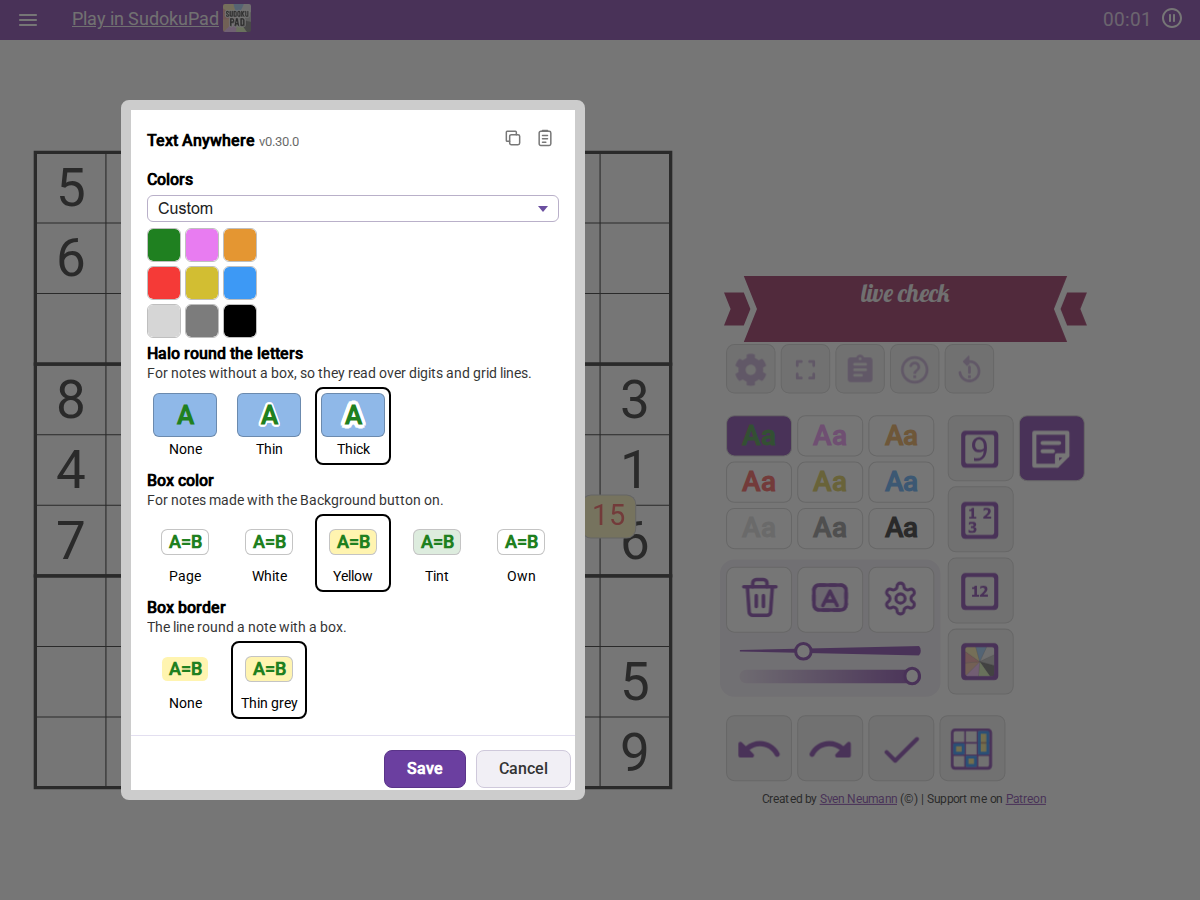
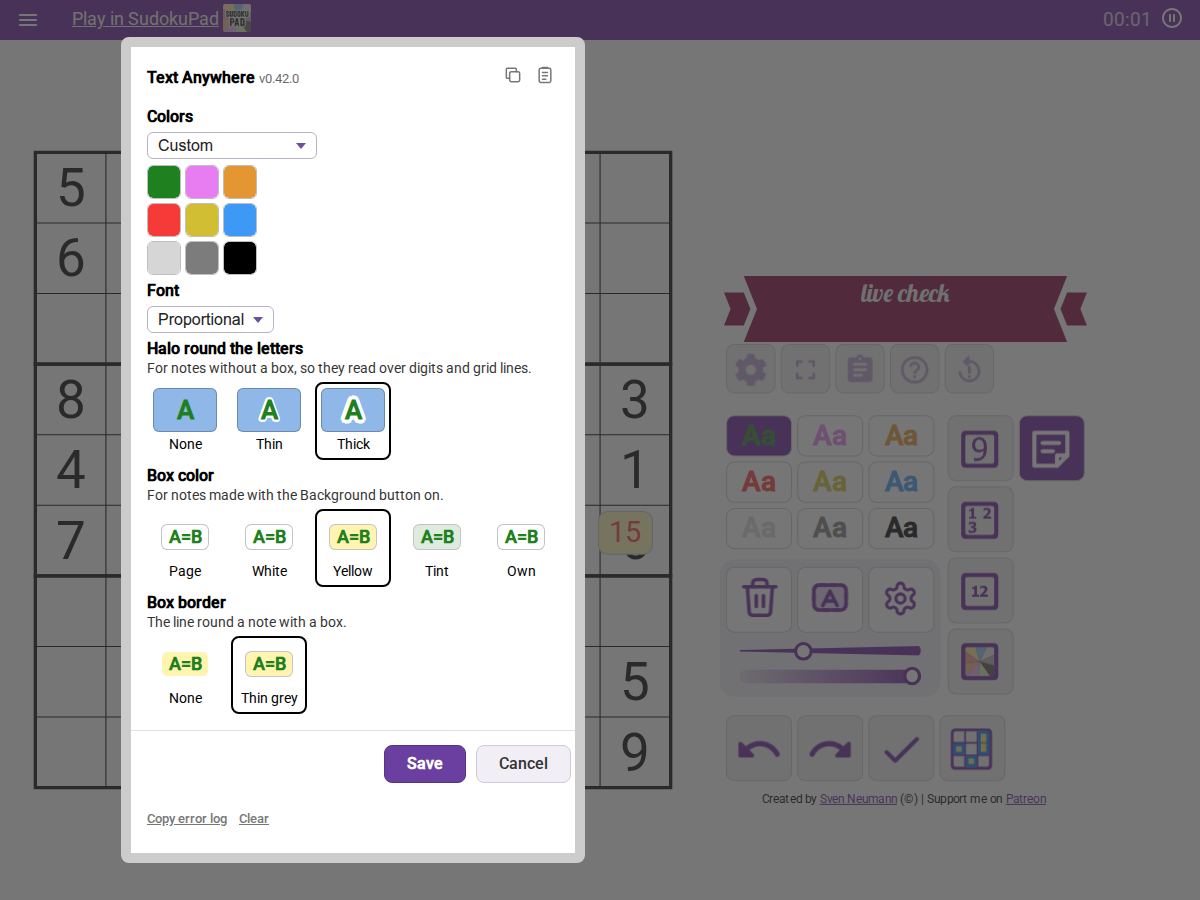
Text Anywhere: Font setting and narrower settings pulldowns (#629) (#661)
* Text Anywhere: a Font setting (Proportional or Fixed width) and narrower settings pulldowns (#629)

Closes #629

* Text Anywhere: retake the settings dialog picture with the Font pulldown (#629)

Closes #629

* Text Anywhere: review fixes for the Font setting (#629)

Closes #629

* Text Anywhere: the font live test sees a stale selection box (#629, C1)

Closes #629

Changed region(s): [[0.0925, 0.0311, 0.4933, 0.8089], [0.0925, 0.8089, 0.4933, 0.9644], [0.4933, 0.56, 0.555, 0.6222]]

diff --git a/draw-tool.user.js b/draw-tool.user.js
@@ -1,7 +1,7 @@
 // ==UserScript==
 // @name         SudokuPad Text Anywhere
 // @namespace    https://github.com/caneff/sudokupad-scripts
-// @version      0.41.1
+// @version      0.42.0
 // @description  Adds a Text Anywhere tool for typed notes on the board or beside it, such as cage sums, in colors of its own. Each puzzle keeps its own notes.
 // @match        https://sudokupad.app/*
 // @match        https://*.sudokupad.app/*
@@ -16,7 +16,7 @@
 (function () {
   'use strict'
 
-  const VERSION = '0.41.1'
+  const VERSION = '0.42.0'
   const TOOL_NAME = 'draw'
   const LAYER_ID = 'draw-tool-layer'
   const DIALOG_BLUR_PX = 8
@@ -197,6 +197,7 @@
   const BACKGROUND_KEY = 'DrawTool_background'
   const BOX_KEY = 'DrawTool_box'
   const FRAME_KEY = 'DrawTool_frame'
+  const FONT_KEY = 'DrawTool_font'
   // A character's width as a share of the text size: the widest digit of a sans-serif font, so a hit test errs wide.
   const CHAR_WIDTH = 0.6
   // A line's height as a share of the text size, in the font's own spacing, so a note's box is as tall as the note drawn.
@@ -673,6 +674,17 @@
   const FRAME_COLOR = '#c4c4c4'
   const readFrame = readFlag
   const frameShadow = (on) => on ? `0 0 0 var(${PIXEL_VAR}, 1px) ${FRAME_COLOR}` : 'none'
+  // Every note's font: the page's own, or a monospace stack. Code spans and blocks use the stack either way.
+  const FONT_PROPORTIONAL = 'proportional'
+  const FONT_FIXED = 'fixed'
+  const FONTS = { [FONT_PROPORTIONAL]: 'Proportional', [FONT_FIXED]: 'Fixed width' }
+  const DEFAULT_FONT = FONT_PROPORTIONAL
+  const FIXED_FONT_STACK = "ui-monospace, SFMono-Regular, Menlo, Consolas, 'Liberation Mono', monospace"
+  const readFont = (saved) => Object.hasOwn(FONTS, saved) ? saved : DEFAULT_FONT
+  const noteFontFamily = (font, boardFont) => font === FONT_FIXED ? FIXED_FONT_STACK : boardFont
+  // Classed as the color pulldown, whose look the dialog's stylesheet already gives (colorBlockCss); a copy of that rule would drift from it.
+  const renderFontChoice = (font) =>
+    `<div class="${CLASS_PREFIX}color-block"><select class="${CLASS_PREFIX}color-choice" data-role="font-choice" aria-label="Font">${Object.entries(FONTS).map(([value, label]) => `<option value="${value}"${value === font ? ' selected' : ''}>${label}</option>`).join('')}</select></div>`
   // The settings dialog's three rows of samples: the halo, the box color and the box border, each button a picture of its result in the current text color.
   const HALO_CELL_COLOR = '#8fb8e8'
   const SAMPLE_BOX_STYLE = 'display:inline-block;padding:0.15em 0.35em;border-radius:0.3em'
@@ -1088,21 +1100,22 @@
     return { ...paletteColors(preset, pages, readCell).colors }
   }
 
-  // Copy and Paste carry the colors, size, transparency, outline, box color and frame, and not the notes, the color picked or the background button.
+  // Copy and Paste carry the colors, size, transparency, outline, box color, frame and font, and not the notes, the color picked or the background button.
   const readPastedColors = (data) => isPlainObject(data) && COLOR_NUMBERS.some((n) => n in data) && COLOR_NUMBERS.every((n) => !(n in data) || savedHex(data[n])) ? readDrawColors(data) : undefined
   const READERS = {
     [COLORS_KEY]: readPastedColors,
     [WIDTH_KEY]: (data) => isWidth(data) ? data : undefined,
     [OPACITY_KEY]: (data) => isOpacity(data) ? data : undefined,
-    // The ticket reads an invalid pasted outline as Thick, box color as Page and frame as off, so none is counted as skipped.
+    // The ticket reads an invalid pasted outline as Thick, box color as Page and frame as off, so none is counted as skipped; a font is read the same way.
     [OUTLINE_KEY]: readOutline,
     [BOX_KEY]: readBox,
-    [FRAME_KEY]: readFrame
+    [FRAME_KEY]: readFrame,
+    [FONT_KEY]: readFont
   }
 
-  // The size, transparency, outline, box color and frame in force, default included, so a paste can put them back to their defaults; the colors only once they are saved.
+  // The size, transparency, outline, box color, frame and font in force, default included, so a paste can put them back to their defaults; the colors only once they are saved.
   function copiedSettings (store) {
-    const copied = { [WIDTH_KEY]: readWidth(store.getData(WIDTH_KEY)), [OPACITY_KEY]: readOpacity(store.getData(OPACITY_KEY)), [OUTLINE_KEY]: readOutline(store.getData(OUTLINE_KEY)), [BOX_KEY]: readBox(store.getData(BOX_KEY)), [FRAME_KEY]: readFrame(store.getData(FRAME_KEY)) }
+    const copied = { [WIDTH_KEY]: readWidth(store.getData(WIDTH_KEY)), [OPACITY_KEY]: readOpacity(store.getData(OPACITY_KEY)), [OUTLINE_KEY]: readOutline(store.getData(OUTLINE_KEY)), [BOX_KEY]: readBox(store.getData(BOX_KEY)), [FRAME_KEY]: readFrame(store.getData(FRAME_KEY)), [FONT_KEY]: readFont(store.getData(FONT_KEY)) }
     const savedColors = readDrawColors(store.getData(COLORS_KEY))
     if (savedColors) copied[COLORS_KEY] = savedColors
     return JSON.stringify(copied)
@@ -1838,7 +1851,7 @@
     return Math.round(from + (to - from) * Math.min(1, (heldMs - NUDGE_REPEAT_MS) / NUDGE_RAMP_MS))
   }
   if (typeof module !== 'undefined' && module.exports) {
-    module.exports = { snapAxis, gridLines, SNAP_PX, nudgeStep, NUDGE_PX, NUDGE_SHIFT_PX, NUDGE_REPEAT_MS, NUDGE_RAMP_MS, NUDGE_MAX_PX, NUDGE_SHIFT_MAX_PX, VERSION, lackingInternals, FEATURES, READERS, TOOL_NAME, toolNamesFor, readDrawing, loadDrawing, puzzleKey, touchIndex, readIndex, saveDrawingTo, keepRestartedTo, DRAWING_PREFIX, RESTARTED_PREFIX, INDEX_KEY, DEFAULT_COLOR, DEFAULT_WIDTH, MIN_WIDTH, MAX_WIDTH, MIN_OPACITY, MAX_OPACITY, DEFAULT_OPACITY, drawColor, readColor, readWidth, readBackground, textSizeFor, OUTLINES, DEFAULT_OUTLINE, OUTLINE_LABELS, readOutline, haloShadow, OUTLINE_EM, itemOpacity, readOpacity, HIT_MARGIN_PX, grownBox, noteAtPoint, pointerSpeed, isPlacing, SNAP_MAX_SPEED, SPEED_WINDOW_MS, lockedAxis, axisLocked, viewShift, WINDOW_PAD_PX, textItem, textBox, noteBox, parseMarkdown, closedSymbols, closedText, isSmallRectangle, RECTANGLE_CLICK_PX, symbolJustTyped, rawOffset, toggledCheck, notesTouched, panelLooks, touchesBox, placedItem, boardView, screenPoint, SHOWN_AT, noteScreenBox, resizedItem, autoSized, CORNERS, reachablePoint, DRAWN_SIZE, BOX_WIDTH_EM, BOX_LINES, LINE_HEIGHT, MIN_BOX_EM, isClick, CLICK_SLOP, SUDOKUPAD_PEN_COLORS, hexColor, readDrawColors, presetOptions, presetColors, copiedSettings, pastedSettings, pasteReport, PRESET_LABELS, COLORS_KEY, WIDTH_KEY, OPACITY_KEY, OUTLINE_KEY, BACKGROUND_KEY, BOX_KEY, FRAME_KEY, BOX_PRESETS, DEFAULT_BOX, BOX_YELLOW, readBox, boxChoice, boxFill, FRAME_COLOR, readFrame, frameShadow, renderSamplePicks, copiedPenColors, editedColor, colorsCss, HOLD_TO_EDIT_MS }
+    module.exports = { snapAxis, gridLines, SNAP_PX, nudgeStep, NUDGE_PX, NUDGE_SHIFT_PX, NUDGE_REPEAT_MS, NUDGE_RAMP_MS, NUDGE_MAX_PX, NUDGE_SHIFT_MAX_PX, VERSION, lackingInternals, FEATURES, READERS, TOOL_NAME, toolNamesFor, readDrawing, loadDrawing, puzzleKey, touchIndex, readIndex, saveDrawingTo, keepRestartedTo, DRAWING_PREFIX, RESTARTED_PREFIX, INDEX_KEY, DEFAULT_COLOR, DEFAULT_WIDTH, MIN_WIDTH, MAX_WIDTH, MIN_OPACITY, MAX_OPACITY, DEFAULT_OPACITY, drawColor, readColor, readWidth, readBackground, textSizeFor, OUTLINES, DEFAULT_OUTLINE, OUTLINE_LABELS, readOutline, haloShadow, OUTLINE_EM, itemOpacity, readOpacity, HIT_MARGIN_PX, grownBox, noteAtPoint, pointerSpeed, isPlacing, SNAP_MAX_SPEED, SPEED_WINDOW_MS, lockedAxis, axisLocked, viewShift, WINDOW_PAD_PX, textItem, textBox, noteBox, parseMarkdown, closedSymbols, closedText, isSmallRectangle, RECTANGLE_CLICK_PX, symbolJustTyped, rawOffset, toggledCheck, notesTouched, panelLooks, touchesBox, placedItem, boardView, screenPoint, SHOWN_AT, noteScreenBox, resizedItem, autoSized, CORNERS, reachablePoint, DRAWN_SIZE, BOX_WIDTH_EM, BOX_LINES, LINE_HEIGHT, MIN_BOX_EM, isClick, CLICK_SLOP, SUDOKUPAD_PEN_COLORS, hexColor, readDrawColors, presetOptions, presetColors, copiedSettings, pastedSettings, pasteReport, PRESET_LABELS, COLORS_KEY, WIDTH_KEY, OPACITY_KEY, OUTLINE_KEY, BACKGROUND_KEY, BOX_KEY, FRAME_KEY, FONT_KEY, FONTS, DEFAULT_FONT, FIXED_FONT_STACK, readFont, noteFontFamily, renderFontChoice, BOX_PRESETS, DEFAULT_BOX, BOX_YELLOW, readBox, boxChoice, boxFill, FRAME_COLOR, readFrame, frameShadow, renderSamplePicks, copiedPenColors, editedColor, colorsCss, HOLD_TO_EDIT_MS }
   }
   if (typeof document === 'undefined') return
 
@@ -2199,7 +2212,7 @@
     '}',
     `.${HANDLE_CLASS}.${ENTERING_CLASS} { opacity: 0; }`,
     `.${CHECK_CLASS} { display: inline-block; box-sizing: border-box; width: 0.8em; height: 0.8em; border: 2px solid currentColor; border-radius: 3px; vertical-align: -0.05em; position: relative; }`,
-    `.${CODE_CLASS} { font-family: ui-monospace, SFMono-Regular, Menlo, Consolas, 'Liberation Mono', monospace; font-size: 0.9em; background: color-mix(in srgb, currentColor 15%, transparent); border-radius: 0.25em; padding: 0.05em 0.25em; box-decoration-break: clone; -webkit-box-decoration-break: clone; }`,
+    `.${CODE_CLASS} { font-family: ${FIXED_FONT_STACK}; font-size: 0.9em; background: color-mix(in srgb, currentColor 15%, transparent); border-radius: 0.25em; padding: 0.05em 0.25em; box-decoration-break: clone; -webkit-box-decoration-break: clone; }`,
     `.${CODE_BLOCK_CLASS} { display: block; padding: 0.15em 0.35em; border-radius: 0.3em; }`,
     `.${CHECK_DONE_CLASS}::after { content: ''; position: absolute; left: 0.2em; top: -0.1em; width: 0.25em; height: 0.5em; border: solid currentColor; border-width: 0 2px 2px 0; transform: rotate(45deg); }`,
     `.${ACTIVE_CLASS} .${TEXT_CLASS}:not(.${TEXT_BOX_CLASS}) .${CHECK_CLASS} { cursor: pointer; }`,
@@ -2233,10 +2246,11 @@
   let opacity = DEFAULT_OPACITY
   // Whether the next note is made with a background. The Background button turns it on and off, and it is remembered.
   let background = false
-  // The outline of every note and the box color and frame of every note with a box, as the settings dialog sets them.
+  // The outline and font of every note and the box color and frame of every note with a box, as the settings dialog sets them.
   let outline = DEFAULT_OUTLINE
   let boxColor = DEFAULT_BOX
   let frame = false
+  let noteFont = DEFAULT_FONT
   // Text Anywhere's nine colors, or null until they are first copied from the pen colors.
   let colors = null
   // The elements the panel adds to SudokuPad's keypad while Text Anywhere is current.
@@ -2282,15 +2296,15 @@
     style.textContent = colors ? colorsCss(colors) : ''
   }
 
-  // The colors, outline, box color and frame as stored and as shown, as a function that puts them all back after a Save that failed half-way.
+  // The colors, outline, box color, frame and font as stored and as shown, as a function that puts them all back after a Save that failed half-way.
   function snapshotSave () {
-    const restoreStored = snapshotStore(savedData, [COLORS_KEY, OUTLINE_KEY, BOX_KEY, FRAME_KEY])
-    const was = { colors, outline, boxColor, frame }
+    const restoreStored = snapshotStore(savedData, [COLORS_KEY, OUTLINE_KEY, BOX_KEY, FRAME_KEY, FONT_KEY])
+    const was = { colors, outline, boxColor, frame, noteFont }
     return () => {
       try {
         restoreStored()
       } finally {
-        ;({ colors, outline, boxColor, frame } = was)
+        ;({ colors, outline, boxColor, frame, noteFont } = was)
         showColors()
         if (colors) refreshPickers(CLASS_PREFIX, (n) => colors[n])
         showBoxes()
@@ -2320,25 +2334,33 @@
     boardNotes.run(() => { if (Framework.app.puzzle.currentPuzzle) redraw() })
   }
 
+  // A look setting is stored, then the notes are drawn again in it.
+  function writeLook (key, value) {
+    writeData(key, value)
+    showBoxes()
+  }
+
   function saveOutline (next) {
     outline = next
-    writeData(OUTLINE_KEY, next)
-    showBoxes()
+    writeLook(OUTLINE_KEY, next)
   }
 
   function saveBoxColor (next) {
     boxColor = next
-    writeData(BOX_KEY, next)
-    showBoxes()
+    writeLook(BOX_KEY, next)
   }
 
   function saveFrame (on) {
     frame = on
-    writeData(FRAME_KEY, on)
-    showBoxes()
+    writeLook(FRAME_KEY, on)
   }
 
-  // The settings dialog: nine color pickers and a preset list, the outline, the box color and the frame, which fill a draft Save writes, and Copy and Paste settings, which act at once.
+  function saveFont (next) {
+    noteFont = next
+    writeLook(FONT_KEY, next)
+  }
+
+  // The settings dialog: nine color pickers and a preset list, the font, the outline, the box color and the frame, which fill a draft Save writes, and Copy and Paste settings, which act at once.
   const DIALOG_ID = 'draw-tool-dialog'
   const DIALOG_STYLE_ID = 'draw-tool-dialog-style'
   const CUSTOM_LABEL = 'Custom'
@@ -2352,7 +2374,9 @@
     `#${DIALOG_ID} .draw-tool-sample[data-cell] { border: 1px solid rgb(0 0 0 / .25); }`,
     `#${DIALOG_ID} .draw-tool-pick-label { font-size: 0.85em; }`,
     `#${DIALOG_ID} input.draw-tool-swatch[data-role="box-custom"] { display: block; margin: 0 0 6px; }`,
-    colorBlockCss(CLASS_PREFIX, `#${DIALOG_ID}`)
+    colorBlockCss(CLASS_PREFIX, `#${DIALOG_ID}`),
+    // The pulldowns are as wide as their longest option, not as the dialog's column (after colorBlockCss, whose rule they override).
+    `#${DIALOG_ID} .${CLASS_PREFIX}color-choice { width: auto; min-width: 0; }`
   ].join('\n')
 
   // A pasted value is saved and shown at once, whether or not Text Anywhere is current.
@@ -2364,6 +2388,7 @@
     if (OUTLINE_KEY in values) saveOutline(values[OUTLINE_KEY])
     if (BOX_KEY in values) saveBoxColor(values[BOX_KEY])
     if (FRAME_KEY in values) saveFrame(values[FRAME_KEY])
+    if (FONT_KEY in values) saveFont(values[FONT_KEY])
   }
 
   function openDialog () {
@@ -2375,6 +2400,7 @@
     let draftBox = boxColor
     let draftCustom = savedHex(boxColor) ?? BOX_WHITE
     let draftFrame = frame
+    let draftFont = noteFont
     let pages = []
     let paletteNote = ''
     // A palette of a shape the script does not know is the dialog's own note, and does not turn the presets off.
@@ -2386,7 +2412,7 @@
         paletteNote = error.message
       }
     }
-    const edits = () => ({ colors: colorsEdited, outline: draftOutline !== outline, box: draftBox !== boxColor, frame: draftFrame !== frame })
+    const edits = () => ({ colors: colorsEdited, outline: draftOutline !== outline, box: draftBox !== boxColor, frame: draftFrame !== frame, font: draftFont !== noteFont })
     const box = settingsUi.run(() => showSettingsDialog(dialogs, {
       prefix: CLASS_PREFIX,
       name: 'Text Anywhere',
@@ -2402,6 +2428,7 @@
         if (edited.outline) saveOutline(draftOutline)
         if (edited.box) saveBoxColor(draftBox)
         if (edited.frame) saveFrame(draftFrame)
+        if (edited.font) saveFont(draftFont)
       }
     }), () => null)
     if (!box) return
@@ -2410,6 +2437,7 @@
       box.innerHTML = '<div class="draw-tool-section-title">Colors</div>' +
         renderColorBlock({ prefix: CLASS_PREFIX, label: 'Text color preset', options, swatches: COLOR_NUMBERS.map((n) => ({ key: String(n), value: draft[n], label: `Text color ${n}` })) }) +
         (paletteNote ? `<div data-role="palette-note">${paletteNote}.</div>` : '') +
+        `<div class="draw-tool-section-title">Font</div>${renderFontChoice(draftFont)}` +
         renderSamplePicks({ outline: draftOutline, box: draftBox, custom: draftCustom, frame: draftFrame, textColor: draft[color] })
     }
     draw()
@@ -2421,6 +2449,9 @@
           draft = presetColors(chosen, pages, readCellColor, readPenColor)
           colorsEdited = true
         }
+        draw()
+      } else if (target.matches('[data-role="font-choice"]')) {
+        draftFont = readFont(target.value)
         draw()
       } else if (target.matches('[data-role="box-custom"]')) {
         draftCustom = draftBox = hexColor(target.value)
@@ -2449,6 +2480,7 @@
       draftBox = boxColor
       draftCustom = savedHex(boxColor) ?? draftCustom
       draftFrame = frame
+      draftFont = noteFont
       draft = colors ?? draft
       chosen = null
       colorsEdited = false
@@ -2737,7 +2769,7 @@
     watchBoard(svg)
     const map = boardMap()
     lastLayout = layoutKey(map)
-    const font = window.getComputedStyle(svg).fontFamily
+    const font = noteFontFamily(noteFont, window.getComputedStyle(svg).fontFamily)
     if (font !== layerFont) layer.style.fontFamily = layerFont = font
     noteGroups(layer)
     placeBoardGroup(map)
@@ -3970,6 +4002,7 @@
     colors = readDrawColors(readData(COLORS_KEY))
     boxColor = readBox(readData(BOX_KEY))
     frame = readFrame(readData(FRAME_KEY))
+    noteFont = readFont(readData(FONT_KEY))
     showColors()
     // The features are independent: one that fails to install costs the others nothing.
     textTool.run(() => {

diff --git a/test/draw-tool.test.js b/test/draw-tool.test.js
@@ -7,7 +7,7 @@ const path = require('node:path')
 const { headerVersion } = require('./header-version.js')
 const { quietly } = require('./fake-store.js')
 const { failEachListener } = require('./specs/broken-sudokupad.js')
-const { snapAxis, gridLines, SNAP_PX, nudgeStep, NUDGE_PX, NUDGE_SHIFT_PX, NUDGE_REPEAT_MS, NUDGE_RAMP_MS, NUDGE_MAX_PX, NUDGE_SHIFT_MAX_PX, VERSION, lackingInternals, FEATURES, TOOL_NAME, toolNamesFor, readDrawing, loadDrawing, touchIndex, readIndex, saveDrawingTo, keepRestartedTo, DRAWING_PREFIX, RESTARTED_PREFIX, INDEX_KEY, DEFAULT_COLOR, DEFAULT_WIDTH, MIN_WIDTH, MAX_WIDTH, DEFAULT_OPACITY, drawColor, readColor, readWidth, readBackground, textSizeFor, itemOpacity, HIT_MARGIN_PX, grownBox, noteAtPoint, pointerSpeed, isPlacing, SNAP_MAX_SPEED, SPEED_WINDOW_MS, lockedAxis, axisLocked, viewShift, WINDOW_PAD_PX, textItem, textBox, noteBox, parseMarkdown, closedSymbols, closedText, isSmallRectangle, RECTANGLE_CLICK_PX, symbolJustTyped, rawOffset, toggledCheck, notesTouched, panelLooks, touchesBox, placedItem, boardView, screenPoint, SHOWN_AT, resizedItem, autoSized, CORNERS, reachablePoint, noteScreenBox, DRAWN_SIZE, isClick, CLICK_SLOP, SUDOKUPAD_PEN_COLORS, hexColor, readDrawColors, copiedPenColors, editedColor, colorsCss, presetOptions, presetColors, copiedSettings, pastedSettings, READERS, PRESET_LABELS, COLORS_KEY, WIDTH_KEY, OPACITY_KEY, OUTLINE_KEY, MIN_OPACITY, MAX_OPACITY, readOpacity, OUTLINES, DEFAULT_OUTLINE, OUTLINE_LABELS, readOutline, haloShadow, OUTLINE_EM, BOX_KEY, FRAME_KEY, BOX_PRESETS, DEFAULT_BOX, readBox, boxChoice, boxFill, readFrame, frameShadow, renderSamplePicks, FRAME_COLOR, BOX_YELLOW } = require('../draw-tool.user.js')
+const { snapAxis, gridLines, SNAP_PX, nudgeStep, NUDGE_PX, NUDGE_SHIFT_PX, NUDGE_REPEAT_MS, NUDGE_RAMP_MS, NUDGE_MAX_PX, NUDGE_SHIFT_MAX_PX, VERSION, lackingInternals, FEATURES, TOOL_NAME, toolNamesFor, readDrawing, loadDrawing, touchIndex, readIndex, saveDrawingTo, keepRestartedTo, DRAWING_PREFIX, RESTARTED_PREFIX, INDEX_KEY, DEFAULT_COLOR, DEFAULT_WIDTH, MIN_WIDTH, MAX_WIDTH, DEFAULT_OPACITY, drawColor, readColor, readWidth, readBackground, textSizeFor, itemOpacity, HIT_MARGIN_PX, grownBox, noteAtPoint, pointerSpeed, isPlacing, SNAP_MAX_SPEED, SPEED_WINDOW_MS, lockedAxis, axisLocked, viewShift, WINDOW_PAD_PX, textItem, textBox, noteBox, parseMarkdown, closedSymbols, closedText, isSmallRectangle, RECTANGLE_CLICK_PX, symbolJustTyped, rawOffset, toggledCheck, notesTouched, panelLooks, touchesBox, placedItem, boardView, screenPoint, SHOWN_AT, resizedItem, autoSized, CORNERS, reachablePoint, noteScreenBox, DRAWN_SIZE, isClick, CLICK_SLOP, SUDOKUPAD_PEN_COLORS, hexColor, readDrawColors, copiedPenColors, editedColor, colorsCss, presetOptions, presetColors, copiedSettings, pastedSettings, READERS, PRESET_LABELS, COLORS_KEY, WIDTH_KEY, OPACITY_KEY, OUTLINE_KEY, MIN_OPACITY, MAX_OPACITY, readOpacity, OUTLINES, DEFAULT_OUTLINE, OUTLINE_LABELS, readOutline, haloShadow, OUTLINE_EM, BOX_KEY, FRAME_KEY, BOX_PRESETS, DEFAULT_BOX, readBox, boxChoice, boxFill, readFrame, frameShadow, renderSamplePicks, FRAME_COLOR, BOX_YELLOW, FONT_KEY, FONTS, DEFAULT_FONT, FIXED_FONT_STACK, readFont, noteFontFamily, renderFontChoice } = require('../draw-tool.user.js')
 const readPaste = (text) => pastedSettings(text, READERS)
 
 // The parts of an Event toolNamesFor reads: eventPhase is 0 once the browser has finished dispatching it.
@@ -272,13 +272,13 @@ test('a Darker page preset the palette lacks, or an unknown one, throws', () => 
   assert.throws(() => presetColors('nope', [], () => undefined, () => undefined), /not a preset/)
 })
 
-test('Copy settings holds the colors, size, transparency, outline, box color and frame, defaults included, and no notes, color pick or background', () => {
-  const copied = JSON.parse(copiedSettings(storeOf({ [COLORS_KEY]: hexes('#112233'), [WIDTH_KEY]: 3.5, [OPACITY_KEY]: 55, [OUTLINE_KEY]: 'thin', [BOX_KEY]: 'tint', [FRAME_KEY]: true, DrawTool_color: 4, DrawTool_drawing_x: [] })))
-  assert.deepEqual(copied, { [COLORS_KEY]: hexes('#112233'), [WIDTH_KEY]: 3.5, [OPACITY_KEY]: 55, [OUTLINE_KEY]: 'thin', [BOX_KEY]: 'tint', [FRAME_KEY]: true })
+test('Copy settings holds the colors, size, transparency, outline, box color, frame and font, defaults included, and no notes, color pick or background', () => {
+  const copied = JSON.parse(copiedSettings(storeOf({ [COLORS_KEY]: hexes('#112233'), [WIDTH_KEY]: 3.5, [OPACITY_KEY]: 55, [OUTLINE_KEY]: 'thin', [BOX_KEY]: 'tint', [FRAME_KEY]: true, [FONT_KEY]: 'fixed', DrawTool_color: 4, DrawTool_drawing_x: [] })))
+  assert.deepEqual(copied, { [COLORS_KEY]: hexes('#112233'), [WIDTH_KEY]: 3.5, [OPACITY_KEY]: 55, [OUTLINE_KEY]: 'thin', [BOX_KEY]: 'tint', [FRAME_KEY]: true, [FONT_KEY]: 'fixed' })
 })
 
 test('Copy settings leaves the colors out until they are saved', () => {
-  assert.deepEqual(JSON.parse(copiedSettings(storeOf({}))), { [WIDTH_KEY]: DEFAULT_WIDTH, [OPACITY_KEY]: DEFAULT_OPACITY, [OUTLINE_KEY]: 'medium', [BOX_KEY]: 'page', [FRAME_KEY]: false })
+  assert.deepEqual(JSON.parse(copiedSettings(storeOf({}))), { [WIDTH_KEY]: DEFAULT_WIDTH, [OPACITY_KEY]: DEFAULT_OPACITY, [OUTLINE_KEY]: 'medium', [BOX_KEY]: 'page', [FRAME_KEY]: false, [FONT_KEY]: 'proportional' })
 })
 
 test('the box color setting reads a preset or a #rrggbb color and anything else as Page', () => {
@@ -1340,4 +1340,29 @@ test('viewShift moves a box in from the window edge so it stays WINDOW_PAD_PX in
 test('viewShift puts a box too big for the window at the middle', () => {
   const [dx] = viewShift({ left: -50, top: 300, right: 1100, bottom: 330 }, WIN)
   assert.equal((-50 + 1100) / 2 + dx, 500, 'centred on the window')
+})
+
+test('the font setting is Proportional by default, Fixed width when saved so, and anything else reads as Proportional', () => {
+  assert.equal(DEFAULT_FONT, 'proportional')
+  assert.deepEqual(FONTS, { proportional: 'Proportional', fixed: 'Fixed width' })
+  assert.deepEqual(['proportional', 'fixed'].map(readFont), ['proportional', 'fixed'])
+  for (const bad of [undefined, null, 5, true, {}, 'Fixed', 'monospace', 'toString', '__proto__']) assert.equal(readFont(bad), 'proportional', String(bad))
+})
+
+test('Proportional leaves the page\'s font to the notes and Fixed width is a monospace stack', () => {
+  assert.equal(noteFontFamily('proportional', 'Roboto, sans-serif'), 'Roboto, sans-serif')
+  assert.equal(noteFontFamily('fixed', 'Roboto, sans-serif'), FIXED_FONT_STACK)
+  assert.match(FIXED_FONT_STACK, /^ui-monospace, .*monospace$/)
+})
+
+test('Paste settings returns the font, and an invalid one reads as Proportional without counting as skipped', () => {
+  assert.deepEqual(readPaste(JSON.stringify({ [FONT_KEY]: 'fixed' })), { values: { [FONT_KEY]: 'fixed' }, skipped: 0 })
+  assert.deepEqual(readPaste(JSON.stringify({ [FONT_KEY]: 'comic' })), { values: { [FONT_KEY]: 'proportional' }, skipped: 0 })
+})
+
+test('the font pulldown lists Proportional then Fixed width and selects the one in force', () => {
+  const options = (font) => [...renderFontChoice(font).matchAll(/<option value="([^"]*)"( selected)?>([^<]*)<\/option>/g)].map(([, value, selected, label]) => [value, label, Boolean(selected)])
+  assert.deepEqual(options('proportional'), [['proportional', 'Proportional', true], ['fixed', 'Fixed width', false]])
+  assert.deepEqual(options('fixed'), [['proportional', 'Proportional', false], ['fixed', 'Fixed width', true]])
+  assert.match(renderFontChoice('fixed'), /data-role="font-choice"/)
 })

diff --git a/test/specs/spec-301-closing.test.js b/test/specs/spec-301-closing.test.js
@@ -47,11 +47,11 @@ test('spec 301: Text Anywhere has its own colors, one Size slider and a settings
   assert.deepEqual(draw.presetColors('sudokupad', [], null, readPen), SUDOKUPAD)
   assert.deepEqual(draw.presetColors('pen', [], null, readPen), PEN)
 
-  // Copy carries the colors, the size, transparency, outline, box color and frame (defaults here) and no notes; Paste keeps its own values, skips a bad size or colors and counts them (a bad outline, box color or frame reads as its default).
+  // Copy carries the colors, the size, transparency, outline, box color, frame and font (defaults here) and no notes; Paste keeps its own values, skips a bad size or colors and counts them (a bad outline, box color, frame or font reads as its default).
   const copied = JSON.parse(draw.copiedSettings(storeOf({ DrawTool_colors: PEN, DrawTool_width: 3.5, DrawTool_drawing_x: [text] })))
-  assert.deepEqual(copied, { DrawTool_colors: PEN, DrawTool_width: 3.5, DrawTool_opacity: 100, DrawTool_outline: 'medium', DrawTool_box: 'page', DrawTool_frame: false })
+  assert.deepEqual(copied, { DrawTool_colors: PEN, DrawTool_width: 3.5, DrawTool_opacity: 100, DrawTool_outline: 'medium', DrawTool_box: 'page', DrawTool_frame: false, DrawTool_font: 'proportional' })
   const pasted = draw.pastedSettings(JSON.stringify({ ...copied, DrawTool_width: 99, PenToolExtras_x: 1 }), draw.READERS)
-  assert.deepEqual(pasted, { values: { DrawTool_colors: PEN, DrawTool_opacity: 100, DrawTool_outline: 'medium', DrawTool_box: 'page', DrawTool_frame: false }, skipped: 1 })
+  assert.deepEqual(pasted, { values: { DrawTool_colors: PEN, DrawTool_opacity: 100, DrawTool_outline: 'medium', DrawTool_box: 'page', DrawTool_frame: false, DrawTool_font: 'proportional' }, skipped: 1 })
   assert.throws(() => draw.pastedSettings('not settings', draw.READERS))
 
   // The site: the homepage summary and @description name the notes and the tool's own colors, the details page has a bullet for

diff --git a/test/site.test.js b/test/site.test.js
@@ -449,7 +449,7 @@ test(`${DRAW} lists what the script adds as a grid of short items, one per featu
     'Select and move Click a note or drag a box round several; drag to move, arrow keys nudge.',
     'Erase Right-click a note, or press Delete.',
     'Kept per puzzle Notes survive a reload, for your last 50 puzzles.',
-    'Settings Color presets, halo, box color and border by sample; Copy and Paste to another browser.'
+    'Settings Color presets, font (proportional or fixed width), halo, box color and border by sample; Copy and Paste to another browser.'
   ])
   const grid = read(DRAW).match(/<ul class="features">([\s\S]*?)<\/ul>/)
   assert.ok(grid, `site/${DRAW} has no <ul class="features">`)

diff --git a/site/draw-tool.html b/site/draw-tool.html
@@ -44,7 +44,7 @@
     <li><strong>Select and move</strong> <p>Click a note or drag a box round several; drag to move, arrow keys nudge.</p></li>
     <li><strong>Erase</strong> <p>Right-click a note, or press Delete.</p></li>
     <li><strong>Kept per puzzle</strong> <p>Notes survive a reload, for your last 50 puzzles.</p></li>
-    <li><strong>Settings</strong> <p>Color presets, halo, box color and border by sample; Copy and Paste to another browser.</p></li>
+    <li><strong>Settings</strong> <p>Color presets, font (proportional or fixed width), halo, box color and border by sample; Copy and Paste to another browser.</p></li>
   </ul>
 
   <h2>The Text Anywhere panel</h2>

diff --git a/GLOSSARY.md b/GLOSSARY.md
@@ -244,6 +244,7 @@
 - **Background** — the button between Clear all and the gear, on or off, and a setting for the NEXT text: a text made while it is on stores `bg: true` and is drawn with a rounded box behind it (the **background box color**'s), and one made while it is off has none; a saved text with no `bg` has none. The state is remembered under `DrawTool_background`. Pressing it never changes a text already made, except the one open in the text box and the **selected** ones: while texts are selected it shows theirs (neither on nor off when they differ: a dashed ring, `aria-pressed="mixed"`) and turns them all on, or all off when all have one.
 - **background box color** — the setting, in Text Anywhere's settings dialog (its Box color row), for the color of the box behind every note that has one: five sample buttons, each a short "A=B" note in the text color on that box, Page (the default, `--body-bg`), White, Yellow (`#fff4b0`), Tint (15% of each note's own color over the page color) or Own (a #rrggbb color from a picker shown under the row while Own is picked). Global: it recolors every boxed note, old and new, since a note stores only `bg: true`. Saved under `DrawTool_box` as the preset's id or the hex color; a value that is not one reads as Page. The **halo** stays the page color.
 - **frame** — the settings dialog's Box border row, two sample buttons, None and Thin grey, each a boxed note: Thin grey, every boxed note gets a 1 screen pixel `#c4c4c4` ring round its box, drawn as a `box-shadow` so it takes no room; a note with no box gets none. Global, off by default, saved under `DrawTool_frame` (only `true` is on). Copy and Paste settings carry it and the box color.
+- **font setting** — the settings dialog's Font pulldown, Proportional (the default, the page's own font) or Fixed width (a monospace stack, the one a code span uses). It applies to every note, existing and new, is saved as `DrawTool_font`, and travels with Copy settings and Paste settings; a value that is neither reads as Proportional.
 - **erase** — Text Anywhere's right click: the text the pointer is near is removed whole. Clear all (the trash button) erases every note, after asking, while nothing is selected; while texts are selected it deletes only them, without asking, as the Delete and Backspace keys do.
 - **move** — Text Anywhere's left-drag that starts on a text (the topmost): the **selection** follows the pointer, after the text is selected alone if it was not selected, and each text's stored place changes once, on release, pinned or fixed by where it is dropped, then shifted by up to half a device pixel so its left and top land on whole device pixels. It stops at the last point inside the window; a text may be dropped on SudokuPad's controls. A click with no drag selects the text. A left-drag that starts on a **resize handle** resizes the note and never moves it. In the **text box** a left-drag that starts inside it selects text and never moves it; only one that starts in the 4 px band just outside it (which shows the move cursor) moves the note, after closing it.
 - **nudge** — an arrow key pressed with notes **selected** and no **text box** open: it moves them 1 screen pixel, or 10 with Shift (then up to half a device pixel more, to put each note on whole device pixels, unless a device pixel is wider than a screen pixel), and a key held down repeats it after 300 ms, the step growing over 1.5 s to 8 pixels (40 with Shift); no arrow key reaches
